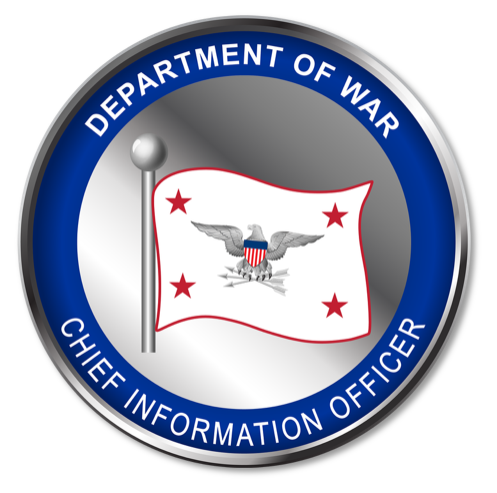
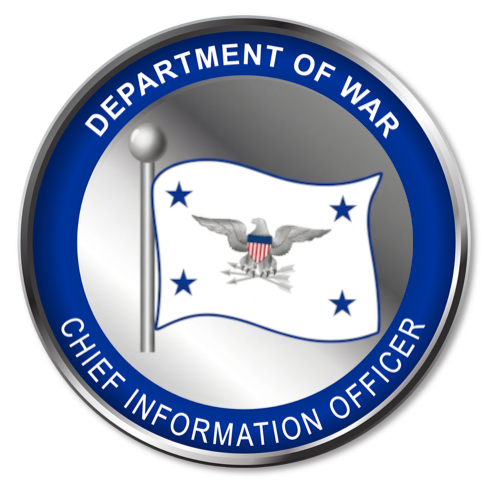
Move rc plays to ga; fix star color on DoW CIO flag

Changed region(s): [[0.2414, 0.2434, 0.8149, 0.7302], [0.8149, 0.3955, 0.8451, 0.5781], [0.7545, 0.2738, 0.7847, 0.3043]]

diff --git a/docs/plays/testing-types/performance-testing.md b/docs/plays/testing-types/performance-testing.md
@@ -2,7 +2,7 @@
 # automatic badge generation
 title: "Performance and Load Testing with GenAI"
 parent: "testing-play.md"
-lifecycle: rc
+lifecycle: ga
 last_updated: "2025-12-30"
 ---
 

diff --git a/docs/plays/documentation-types/deliver-phase-documentation.md b/docs/plays/documentation-types/deliver-phase-documentation.md
@@ -2,7 +2,7 @@
 # automatic badge generation
 title: "Deliver Phase Documentation"
 parent: "documentation-play.md"
-lifecycle: rc
+lifecycle: ga
 last_updated: "2026-01-26"
 ---
 

diff --git a/docs/plays/documentation-types/develop-phase-documentation.md b/docs/plays/documentation-types/develop-phase-documentation.md
@@ -2,7 +2,7 @@
 # automatic badge generation
 title: "Develop Phase Documentation"
 parent: "documentation-play.md"
-lifecycle: rc
+lifecycle: ga
 last_updated: "2026-01-26"
 ---
 

diff --git a/docs/plays/documentation-types/monitor-phase-documentation.md b/docs/plays/documentation-types/monitor-phase-documentation.md
@@ -2,7 +2,7 @@
 # automatic badge generation
 title: "Monitor Phase Documentation"
 parent: "documentation-play.md"
-lifecycle: rc
+lifecycle: ga
 last_updated: "2026-02-08"
 ---
 

diff --git a/docs/plays/documentation-types/operate-phase-documentation.md b/docs/plays/documentation-types/operate-phase-documentation.md
@@ -2,7 +2,7 @@
 # automatic badge generation
 title: "Operate Phase Documentation"
 parent: "documentation-play.md"
-lifecycle: rc
+lifecycle: ga
 last_updated: "2026-01-26"
 ---
 

diff --git a/docs/plays/documentation-types/release-phase-documentation.md b/docs/plays/documentation-types/release-phase-documentation.md
@@ -2,7 +2,7 @@
 # automatic badge generation
 title: "Release Phase Documentation"
 parent: "documentation-play.md"
-lifecycle: rc
+lifecycle: ga
 last_updated: "2026-01-26"
 ---
 

diff --git a/docs/plays/documentation-types/deploy-phase-documentation.md b/docs/plays/documentation-types/deploy-phase-documentation.md
@@ -2,7 +2,7 @@
 # automatic badge generation
 title: "Deploy Phase Documentation"
 parent: "documentation-play.md"
-lifecycle: rc
+lifecycle: ga
 last_updated: "2026-01-26"
 ---
 

diff --git a/docs/plays/fundamentals-play.md b/docs/plays/fundamentals-play.md
@@ -1,6 +1,6 @@
 ---
 # automatic badge generation
-lifecycle: rc
+lifecycle: ga
 last_updated: "2025-07-15"
 ---
 # **Play: Fundamentals for Designing an AI-Augmented Tool Chain**

diff --git a/docs/plays/code-gen-play.md b/docs/plays/code-gen-play.md
@@ -1,6 +1,6 @@
 ---
 # automatic badge generation
-lifecycle: rc
+lifecycle: ga
 last_updated: "2025-08-15"
 ---
 # **Play: Leading Practices for Code Completion and Generation**

diff --git a/docs/plays/documentation-types/build-phase-documentation.md b/docs/plays/documentation-types/build-phase-documentation.md
@@ -2,7 +2,7 @@
 # automatic badge generation
 title: "Build Phase Documentation"
 parent: "documentation-play.md"
-lifecycle: rc
+lifecycle: ga
 last_updated: "2026-01-26"
 ---
 

diff --git a/docs/plays/documentation-types/plan-phase-documentation.md b/docs/plays/documentation-types/plan-phase-documentation.md
@@ -2,7 +2,7 @@
 # automatic badge generation
 title: "Plan Phase Documentation"
 parent: "documentation-play.md"
-lifecycle: rc
+lifecycle: ga
 last_updated: "2026-01-26"
 ---
 

diff --git a/docs/plays/documentation-types/test-phase-documentation.md b/docs/plays/documentation-types/test-phase-documentation.md
@@ -2,7 +2,7 @@
 # automatic badge generation
 title: "Test Phase Documentation"
 parent: "documentation-play.md"
-lifecycle: rc
+lifecycle: ga
 last_updated: "2026-01-26"
 ---
 
